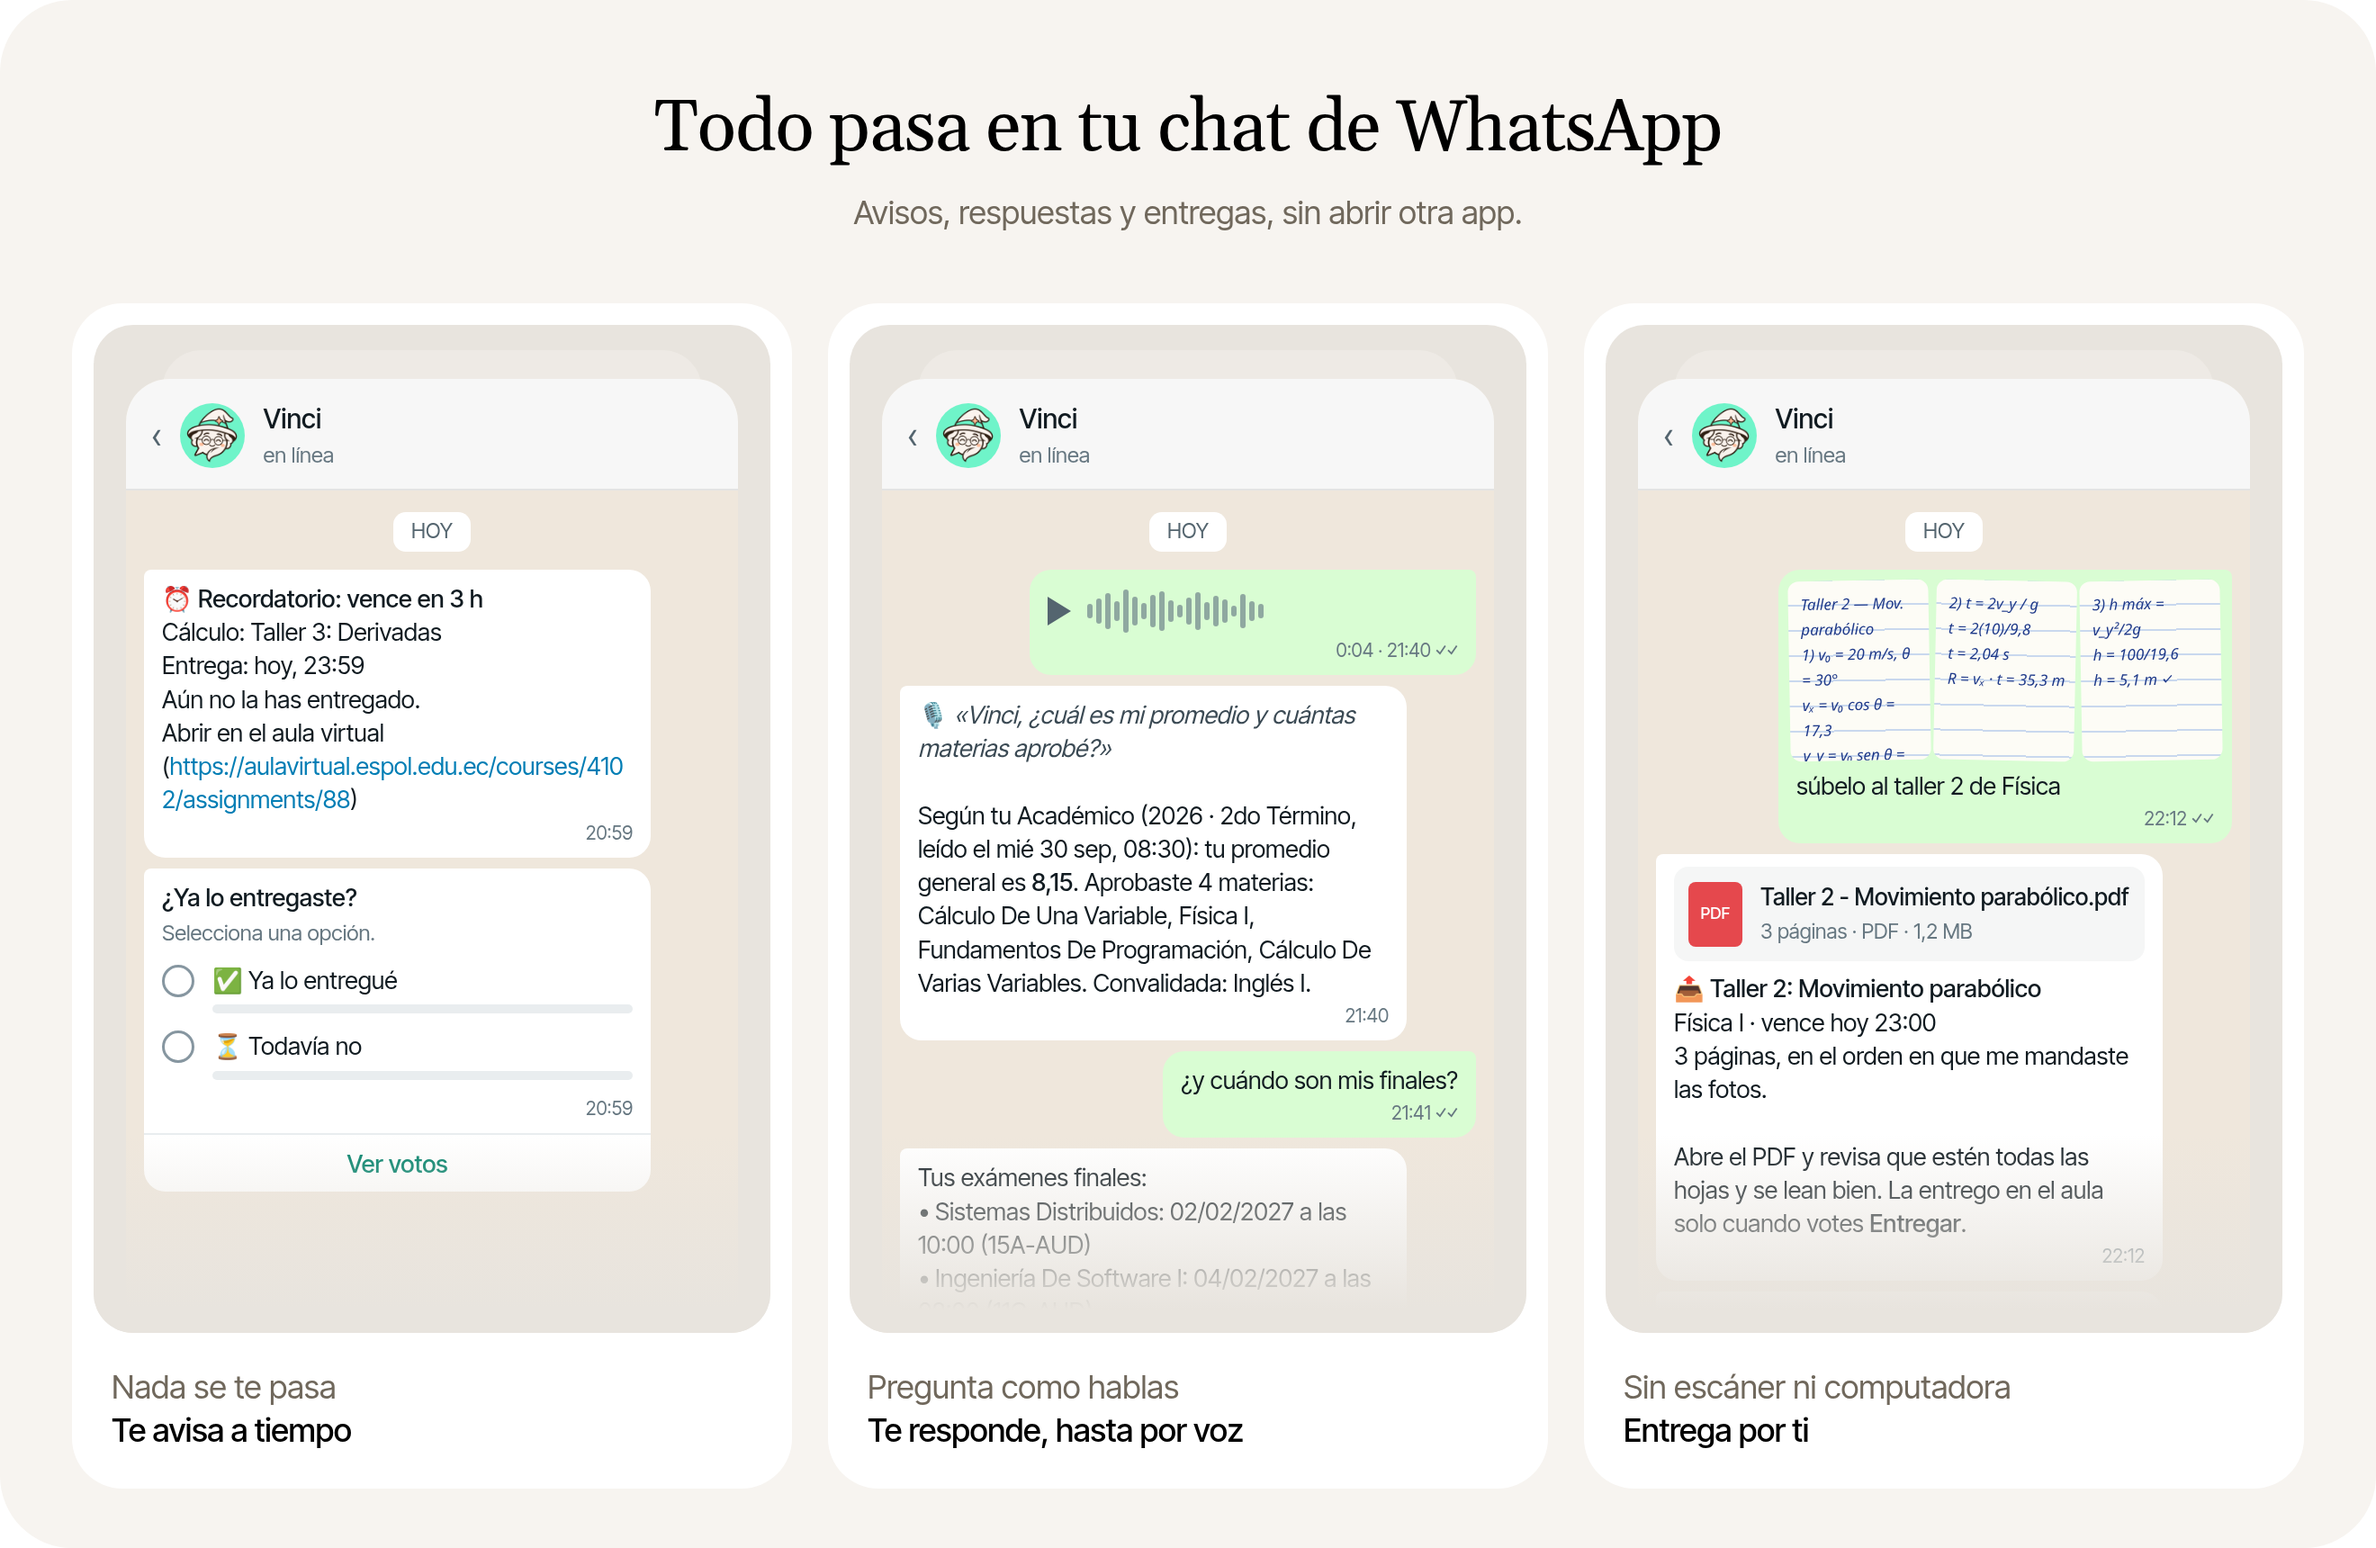
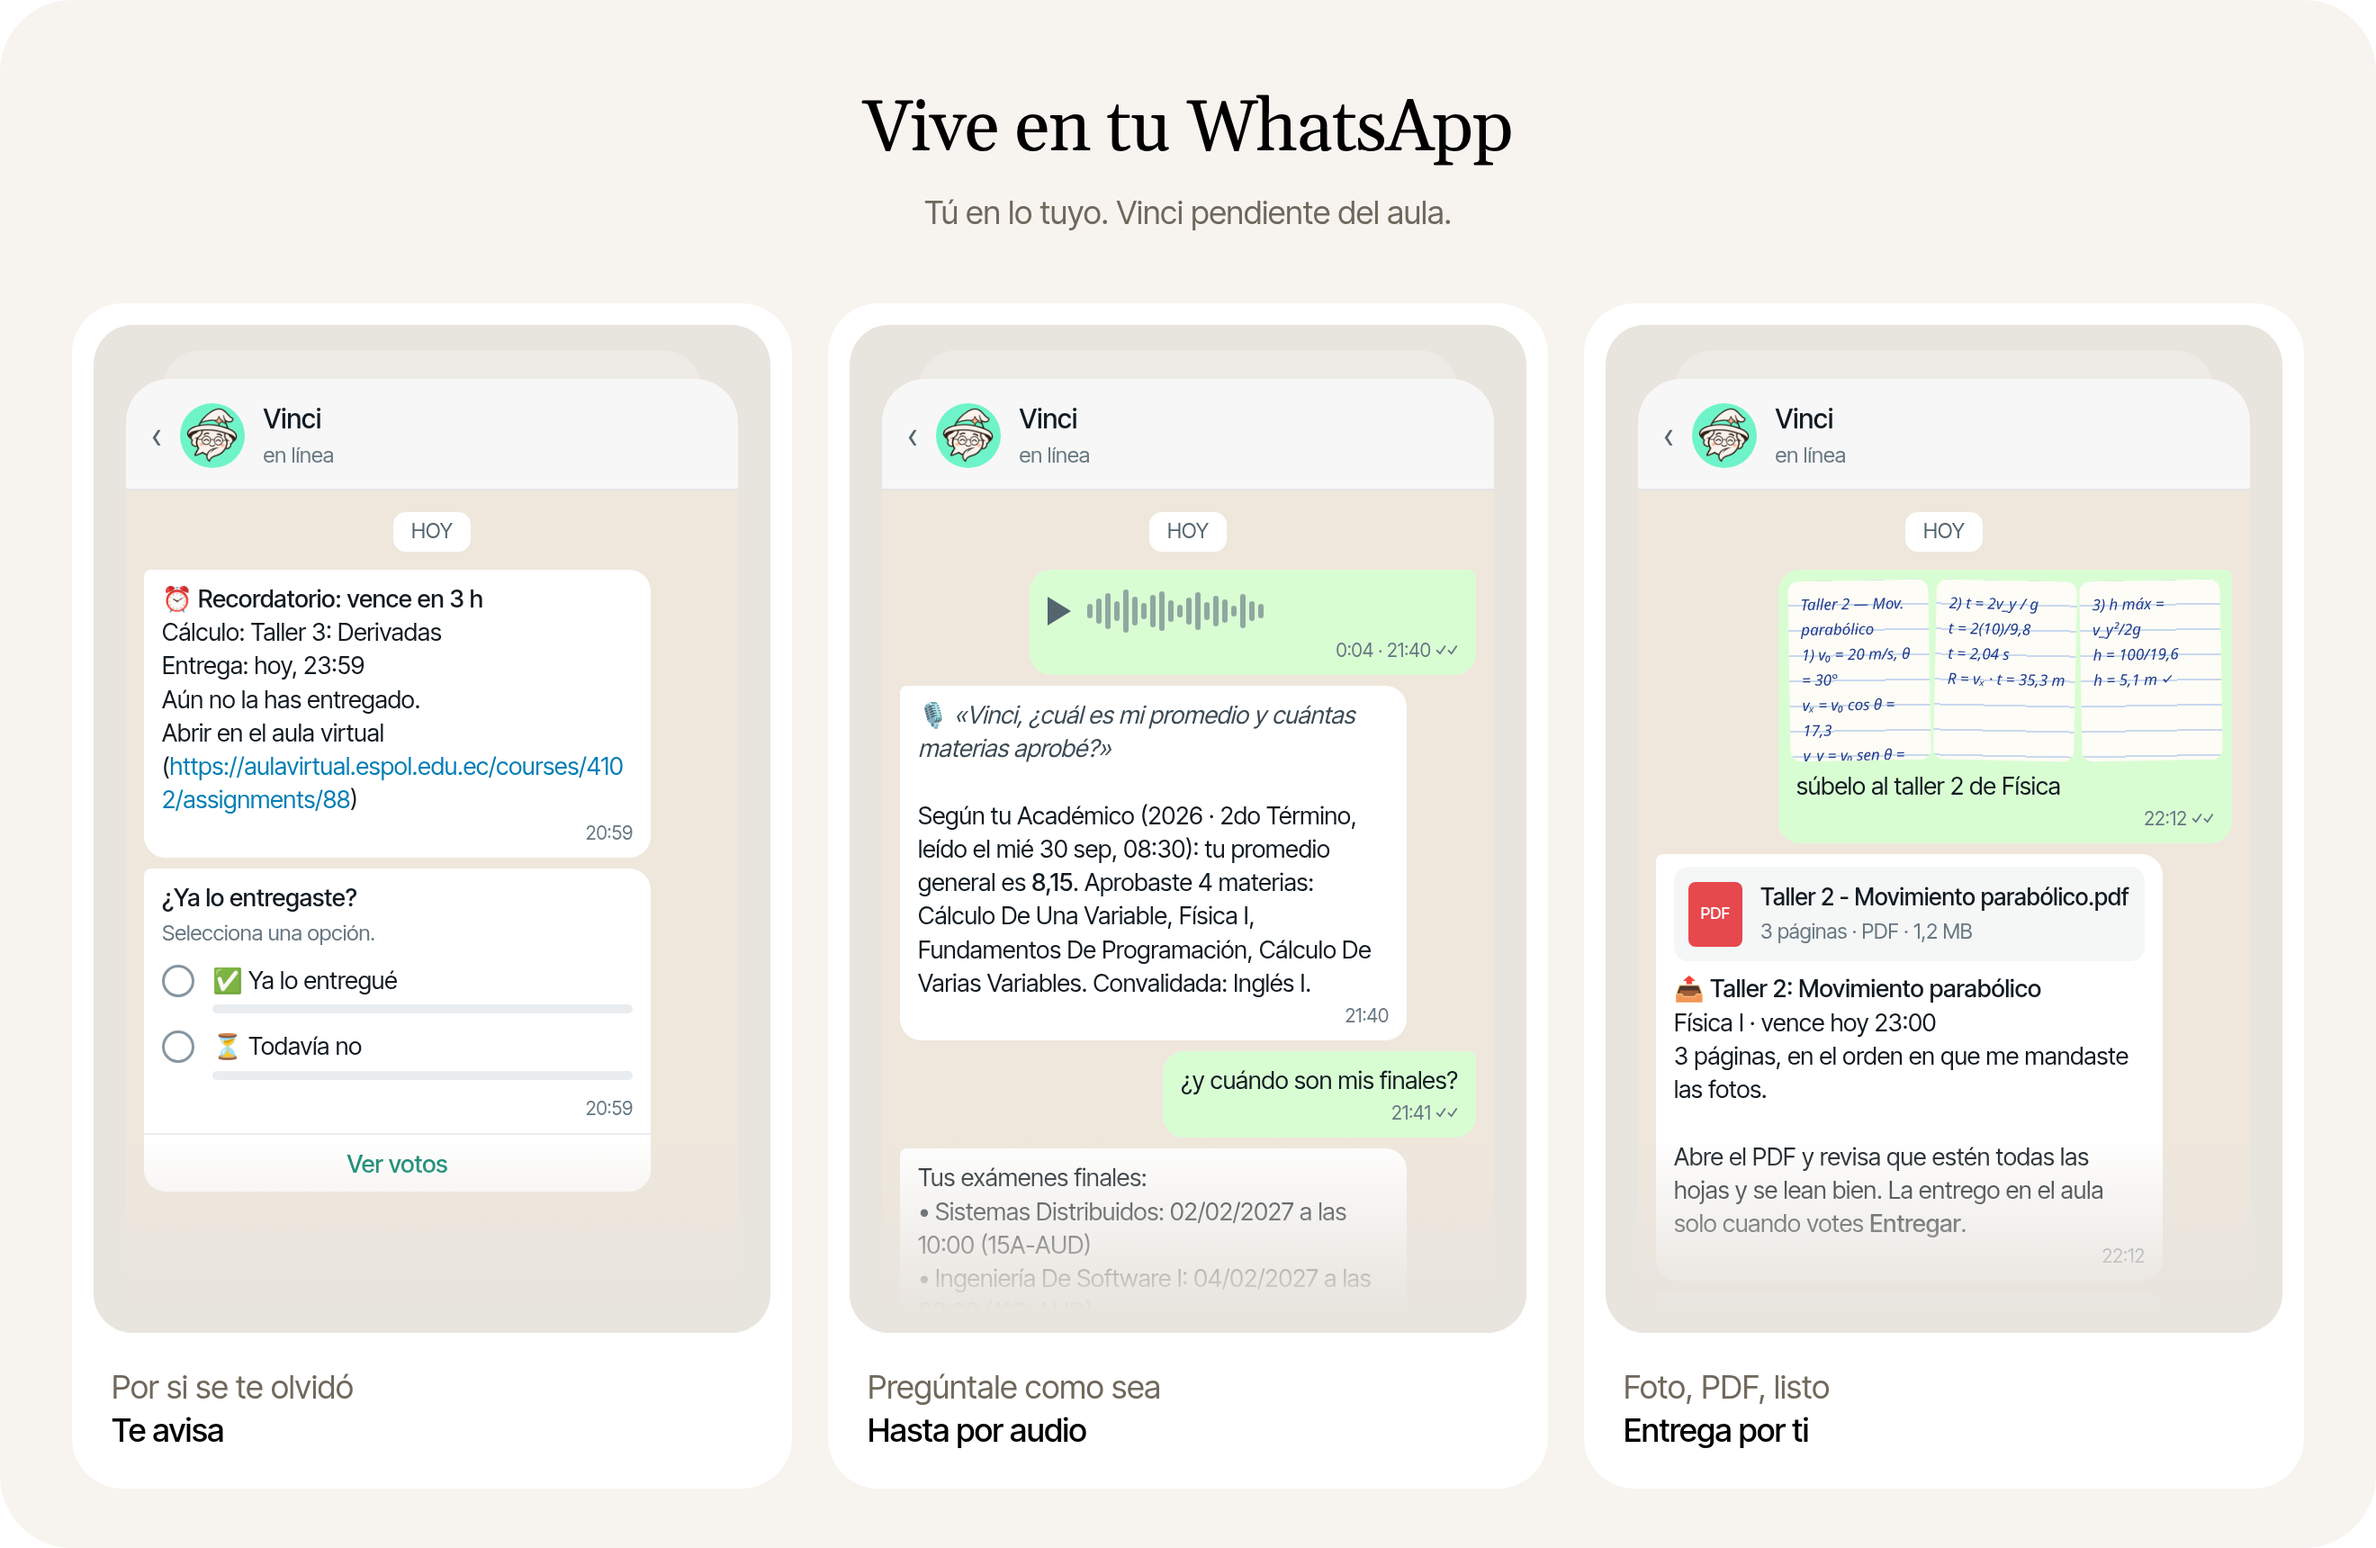
docs(readme): lowkey voice, short lists instead of tables
The README reads like a friend explaining Vinci: short sentences, no sales
pitch, the guides in one line of links. The phones image copy follows the
same voice. AGENTS.md names the renamed README sections.

diff --git a/docs/images/pantallas/pantallas.html b/docs/images/pantallas/pantallas.html
@@ -65,8 +65,8 @@
 </head>
 <body>
 <div class="canvas">
-  <h1>Todo pasa en tu chat de WhatsApp</h1>
-  <p class="sub">Avisos, respuestas y entregas, sin abrir otra app.</p>
+  <h1>Vive en tu WhatsApp</h1>
+  <p class="sub">Tú en lo tuyo. Vinci pendiente del aula.</p>
   <div class="cols">
 
     <div class="card">
@@ -92,7 +92,7 @@
         </div>
         <div class="fade"></div>
       </div>
-      <div class="text"><span class="k">Nada se te pasa</span><span class="t">Te avisa a tiempo</span></div>
+      <div class="text"><span class="k">Por si se te olvidó</span><span class="t">Te avisa</span></div>
     </div>
 
     <div class="card">
@@ -130,7 +130,7 @@
         </div>
         <div class="fade"></div>
       </div>
-      <div class="text"><span class="k">Pregunta como hablas</span><span class="t">Te responde, hasta por voz</span></div>
+      <div class="text"><span class="k">Pregúntale como sea</span><span class="t">Hasta por audio</span></div>
     </div>
 
     <div class="card">
@@ -164,7 +164,7 @@
         </div>
         <div class="fade"></div>
       </div>
-      <div class="text"><span class="k">Sin escáner ni computadora</span><span class="t">Entrega por ti</span></div>
+      <div class="text"><span class="k">Foto, PDF, listo</span><span class="t">Entrega por ti</span></div>
     </div>
 
   </div>

diff --git a/README.md b/README.md
@@ -1,13 +1,11 @@
 <div align="center">
 
-<img src="docs/images/vinci-logo.png" width="120" alt="El logo de Vinci: un mago sonriente con lentes redondos, cuya cara es una burbuja de chat">
+<img src="docs/images/vinci-logo.png" width="110" alt="El logo de Vinci: un mago sonriente con lentes redondos, cuya cara es una burbuja de chat">
 
 # Vinci
 
-**Tu semestre en ESPOL, en un chat de WhatsApp.**<br>
-Vinci lee tu aula virtual, te avisa antes de que algo se te pase y te ayuda a estudiar.
-
-[Qué hace](#qué-hace) · [ESPOL](#conectado-a-espol) · [Empezar](#empezar) · [Guías](#guías) · [Privacidad](#privacidad)
+Tu aula virtual, pero en WhatsApp.<br>
+<sub>Para estudiantes de ESPOL. Sin apps nuevas, sin drama.</sub>
 
 </div>
 
@@ -16,79 +14,63 @@ Vinci lee tu aula virtual, te avisa antes de que algo se te pase y te ayuda a es
 <p align="center">
   <img src="docs/images/vinci-pantallas.png" alt="Tres chats de WhatsApp con Vinci: un recordatorio de entrega con la encuesta «¿Ya lo entregaste?»; una nota de voz que pregunta el promedio y Vinci contesta desde el Académico; fotos de un deber que Vinci convierte en PDF y entrega en el aula cuando votas «Entregar»" width="100%">
 </p>
-<p align="center"><sub>Datos ficticios, con los mensajes que Vinci manda en la prueba E2E.</sub></p>
+<p align="center"><sub>Datos ficticios.</sub></p>
 
 ## Qué hace
 
-| | |
-|---|---|
-| **Te avisa** | Revisa el aula cada 10 minutos: tareas nuevas, cambios de fecha, anuncios, notas y material. Te recuerda cada entrega 24 h y 3 h antes. |
-| **Te ordena la semana** | A las 7:00, lo que vence primero y lo que más pesa en tu nota. `/entregas` abre todo en una página dentro del chat. |
-| **Te prepara cada clase** | Media hora antes, un repaso de lo que toca y de lo que vence en esa materia. |
-| **Estudia contigo** | Explica tu material citando archivo y página, te toma quizzes, busca exámenes anteriores y te arma resúmenes en PDF y diapositivas. |
-| **Saca tus cuentas** | Cuánto necesitas para pasar, con los pesos del sílabo. Tu promedio, tus materias aprobadas y tus horarios, desde el Académico. |
-| **Entrega por ti** | Fotos de tu deber → un PDF → al aula, solo cuando confirmas. |
-| **Te entiende** | Notas de voz, capturas de tu horario, fotos de la pizarra. También funciona en tus grupos. |
-| **Uno para cada amigo** | Cada amigo tiene su propio Vinci en WhatsApp, con su aula y sus datos. |
+Lee tu aula cada 10 minutos y te escribe cuando hay algo: una tarea nueva, un cambio de fecha, una nota.
+Antes de que algo venza, te recuerda. Dos veces.
 
-Lo automático (revisar el aula, avisar, recordar) no usa la IA ni gasta tokens.
-[Cada función en detalle →](docs/guia/funciones.md#qué-hace-vinci)
+- A las 7:00 te manda la semana en orden. `/entregas` la abre en una página.
+- Media hora antes de cada clase, te cuenta qué toca.
+- Le preguntas por tu material y te contesta citando la página. También te toma quiz y busca exámenes anteriores.
+- ¿Cuánto necesitas para pasar? Hace la cuenta con los pesos del sílabo. Tu promedio y tus horarios los saca del
+  Académico.
+- Le mandas fotos del deber, arma el PDF y lo entrega en el aula. Solo si le dices que sí.
+- Entiende audios, capturas y fotos de la pizarra. También en grupos.
+- Tus amigos pueden tener el suyo, cada uno con su aula.
 
-## Conectado a ESPOL
+Lo de revisar y recordar no usa IA, así que no gasta tokens. [Todo lo demás →](docs/guia/funciones.md#qué-hace-vinci)
 
-| Fuente | Qué lee |
-|---|---|
-| **[Aula virtual](https://aulavirtual.espol.edu.ec)** (Canvas) | Tareas, fechas, anuncios, notas y el material de cada curso. También entrega tus deberes hechos a mano. |
-| **[Académico](https://www.academico.espol.edu.ec)** | Promedio, avance de la carrera, historial, calificaciones y horarios de clases y exámenes. |
-| **[DSpace](https://www.dspace.espol.edu.ec)** | Unos 20 000 exámenes anteriores de todas las facultades, que Vinci busca y resuelve. |
+## De dónde lee
+
+- **[Aula virtual](https://aulavirtual.espol.edu.ec):** tareas, fechas, anuncios, notas y material. Ahí también entrega.
+- **[Académico](https://www.academico.espol.edu.ec):** promedio, avance, historial y horarios de clases y exámenes.
+- **[DSpace](https://www.dspace.espol.edu.ec):** unos 20 000 exámenes anteriores, de todas las facultades.
 
 ## Empezar
 
-**Si alguien ya tiene su propio Vinci**, pídele que te agregue como amigo. Te llega un mensaje de Vinci por WhatsApp
-con una página para conectar tu aula, y desde ahí tienes tu propio Vinci. [Cómo funciona →](docs/guia/whatsapp.md)
+**¿Alguien ya tiene Vinci?** Que te agregue como amigo. Te llega un link, conectas tu aula y ya.
 
-**Tu propio Vinci** corre en un servidor, encendido todo el día, con la imagen de Docker de este repo. Con
-[Coolify](https://coolify.io) (un panel para desplegar apps en tu servidor):
+**¿Quieres el tuyo?** Corre en tu servidor con Docker. En [Coolify](https://coolify.io) son tres pasos:
 
 1. Crea una app desde este repo, con el `Dockerfile` y un volumen en `/opt/data`.
-2. Agrega la key de tu proveedor de IA, tu token del aula y tu número de WhatsApp.
-3. Pulsa **Deploy** y vincula el número de WhatsApp de Vinci.
+2. Pon la key de tu proveedor de IA, tu token del aula y tu número de WhatsApp.
+3. Dale a **Deploy** y vincula el número de Vinci.
 
-[La guía del servidor, paso a paso →](docs/guia/servidor.md#crear-la-app) ·
-[Sin Docker, en una laptop →](docs/guia/servidor.md#en-una-laptop-vieja-en-casa-sin-docker)
-
-## Guías
-
-| Guía | Qué tiene |
-|---|---|
-| [WhatsApp](docs/guia/whatsapp.md) | Tu chat, tus materias, grupos, amigos y comandos |
-| [Uso diario](docs/guia/uso.md) | Botones, comandos, `/token` y el Académico |
-| [Todas las funciones](docs/guia/funciones.md) | Cada función en detalle |
-| [En un servidor](docs/guia/servidor.md) | Vinci en Coolify con Docker |
-| [Instalación](docs/guia/instalacion.md) | Configuración, Telegram, actualizar y desinstalar |
-| [Privacidad](docs/guia/privacidad.md) | Qué guarda, qué sale de tu servidor y qué puede hacer cada bot |
-| [Límites y problemas](docs/guia/problemas.md) | Lo que todavía no hace y cómo arreglar lo común |
-| [Cómo funciona](docs/guia/como-funciona.md) | Hermes, el sondeo, la renovación del token y el repositorio |
-| [Terminal y Claude Code](docs/guia/terminal.md) | El comando `aula` y `espol-bot` |
-| [Contribuir](docs/guia/contribuir.md) | Hoja de ruta, la prueba E2E y `vinci-check` |
+[Paso a paso →](docs/guia/servidor.md#crear-la-app) · [Sin Docker →](docs/guia/servidor.md#en-una-laptop-vieja-en-casa-sin-docker)
 
 ## Privacidad
 
-- **Solo lee tu aula.** Lo único que escribe es una entrega que tú confirmaste.
-- **Tus datos se quedan en tu servidor.** No hay un servidor central de Vinci.
-- **Los tokens y tu contraseña nunca pasan por el chat ni por la IA.** Viajan cifrados desde tu celular.
+Solo lee tu aula. Lo único que escribe es una entrega que tú aprobaste. Tus datos se quedan en tu servidor, y tus
+tokens y tu contraseña viajan cifrados: nunca pasan por el chat ni por la IA. [Los detalles →](docs/guia/privacidad.md#seguridad-y-privacidad)
 
-[Qué sale de tu servidor y por qué →](docs/guia/privacidad.md#seguridad-y-privacidad)
+## Más
+
+[WhatsApp](docs/guia/whatsapp.md) · [Uso diario](docs/guia/uso.md) · [Funciones](docs/guia/funciones.md) ·
+[Servidor](docs/guia/servidor.md) · [Instalación](docs/guia/instalacion.md) · [Privacidad](docs/guia/privacidad.md) ·
+[Problemas](docs/guia/problemas.md) · [Cómo funciona](docs/guia/como-funciona.md) ·
+[Terminal](docs/guia/terminal.md) · [Contribuir](docs/guia/contribuir.md)
 
 ---
 
 <sub>
 <b>In English:</b> a self-hosted WhatsApp study assistant for ESPOL students, built on
-<a href="https://github.com/NousResearch/hermes-agent">Hermes Agent</a>. It reads your Canvas courses, sends alerts and
-reminders, answers questions about your course material and hands in your work. Telegram is an optional channel.
+<a href="https://github.com/NousResearch/hermes-agent">Hermes Agent</a>. It reads your Canvas courses, reminds you
+before deadlines, answers questions about your course material and hands in your work.
 </sub>
 <br><br>
 <sub>
-Proyecto independiente, sin afiliación a ESPOL, Instructure, Nous Research, Telegram ni WhatsApp.
-Todavía sin licencia: pide permiso antes de reutilizar el código.
+Proyecto independiente, sin afiliación a ESPOL, Instructure, Nous Research ni WhatsApp.
+Sin licencia todavía: pregunta antes de reusar el código.
 </sub>

diff --git a/AGENTS.md b/AGENTS.md
@@ -98,9 +98,9 @@ with `Docs:` and lists what it updated, or says why nothing needed it.
 | A `vinci-check` command | `.claude/skills/control-vinci/SKILL.md` |
 | What runs live, or a command here | «Status» or «Commands» in this file |
 | A known limit (fixed or new) | `problemas.md` «Límites conocidos» |
-| A headline feature (new or gone) | the «Qué hace» table in `README.md` + `funciones.md` |
+| A headline feature (new or gone) | the «Qué hace» list in `README.md` + `funciones.md` |
 | The summary, dashboard, Académico or hand-in messages | `docs/images/pantallas/pantallas.html`, then `scripts/render_screens.sh` |
-| A new ESPOL source (like the Académico) | «Conectado a ESPOL» in `README.md` |
+| A new ESPOL source (like the Académico) | «De dónde lee» in `README.md` |
 
 ## Do not re-propose
 
